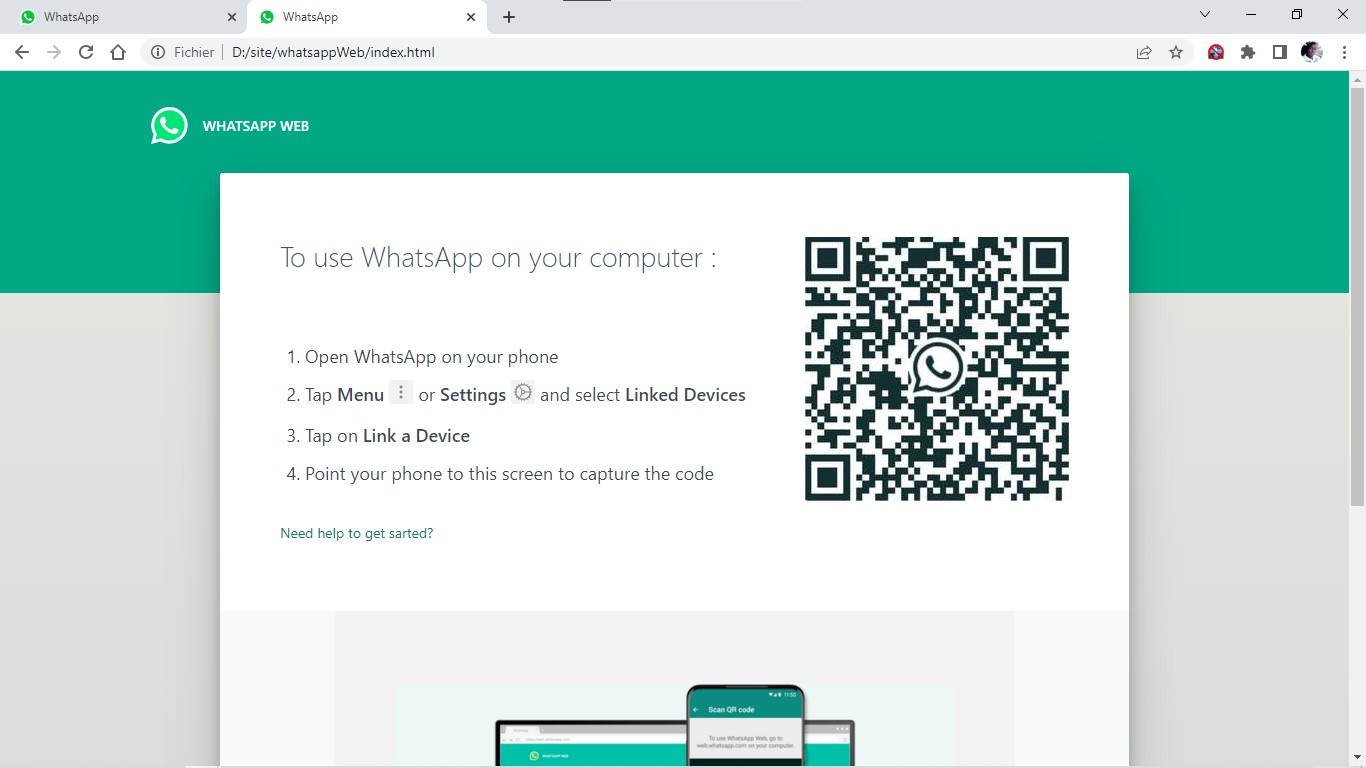
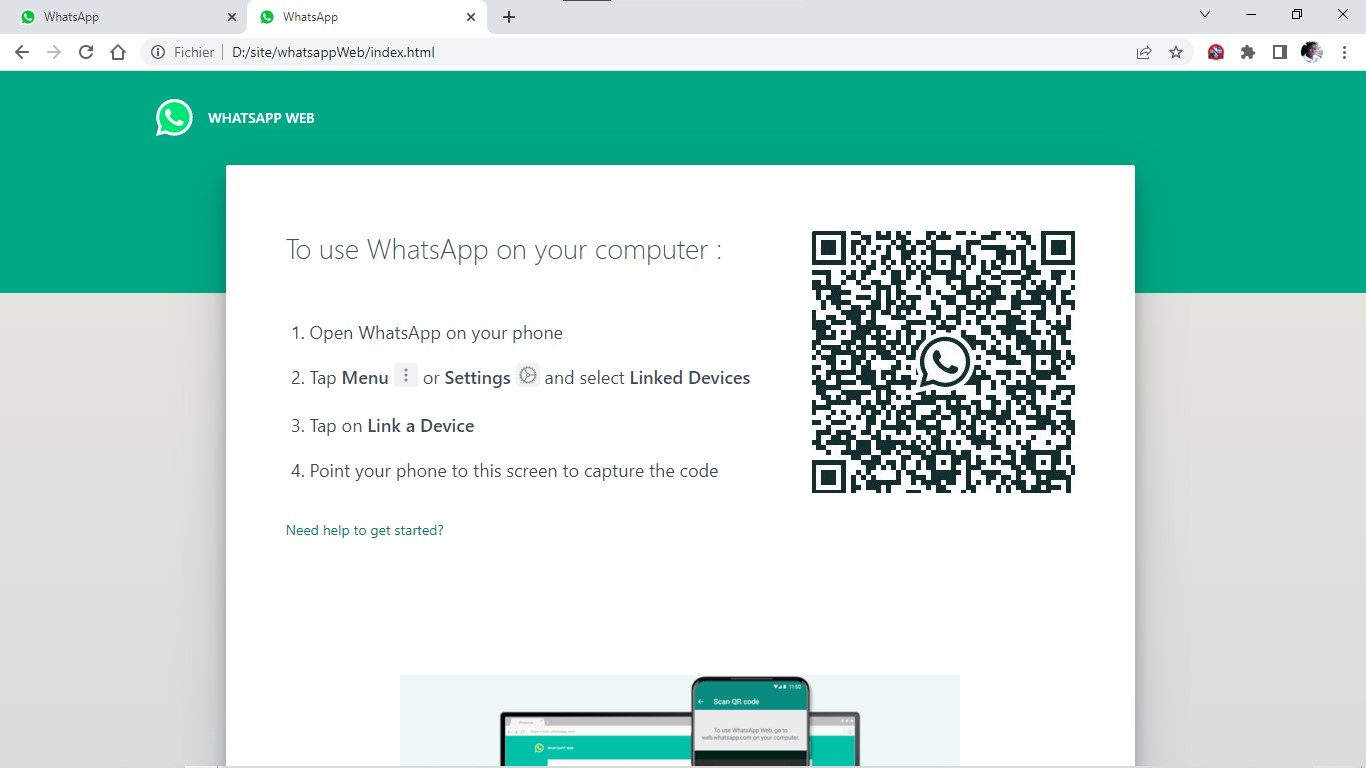
UI improvement

diff --git a/style/mainStyle.css b/style/mainStyle.css
@@ -9,6 +9,15 @@
 
 
 body{
+
+    padding-left: 50px;
+    padding-right: 50px;
+    padding-top: 0px;
+    padding-bottom: 0px;
+    margin-left: 0px;
+    margin-right: 6px;
+    margin-top: 0px;
+    margin-bottom: 0px;
    /* background-color: green;*/
 
 
@@ -26,20 +35,30 @@ body{
 /* Réglage de l'entete verte */
 
 div[id="header"]::before{
+    display: flex;
+    flex: 1;
     background-color: #00a884;
     position: absolute;
     top: 0;
     left: 0;
     right: 0;
-    width: 100%;
+    /*width: 100%;*/
     height: 222px;
     content: "";
     z-index: -1;
+    padding-left: 0px;
+    padding-right: 0px;
+    padding-top: 0px;
+    padding-bottom: 0px;
 }
 
 div[id="header"]{
     display: flex;
     justify-content: center;
+    margin-left: 0px;
+    margin-right: 0px;
+    margin-top: 0px;
+    /*background-color: red;*/
     /*margin-top: 27px;*/
     z-index: 2;
 }
@@ -79,9 +98,10 @@ header p{
 
 div[id="main"]{
     display: flex;
+    flex: 1;
     flex-direction: column;
     align-items: flex-start;
-    width: 909px;
+    max-width: 909px;
     height: 896px;
     margin: auto;
     background-color: white;
@@ -89,26 +109,36 @@ div[id="main"]{
     box-shadow: 0 17px 50px 0 rgb(11 20 26 / 19%), 0 12px 15px 0 rgb(11 20 26 / 24%);
     margin-bottom: 100px;
 
-    /*padding-left: 0px;
+    padding-left: 0px;
     padding-right: 0px;
     padding-top: 0px;
-    padding-bottom: 0px;*/
+    padding-bottom: 0px;
 
 }
 
 section[id="firstSection"]{
     display: flex;
+    /*flex: 1;*/
     flex-direction: column;
-    align-items: flex-start;
+    align-items: stretch ;
     justify-content: space-between;
     width: 789px;
     height: 264px;
     background-color: white;
     padding: 64px 60px 110px;
     margin: auto;
+    margin-left: 0px;
+    margin-right: 0px;
+    /*position: absolute;
+    z-index: 2;*/
+    
     border-radius: 3px 3px 0px 0px;
-    /*box-shadow: 5px 5px 5px black;*/
-    /*position: relative;*/
+    /*box-shadow: 5px 5px 5px black;
+    position: absolute;
+    top: 0px;
+    bottom: 0px;
+    left: 0px;
+    right: 0px; */
 }
 
 section[id="firstSection"] a{
@@ -116,19 +146,27 @@ section[id="firstSection"] a{
     line-height: 1;
     color: #008069;
     text-decoration: none; 
-    margin-top: 5px;
+    /*position: absolute;
+    left: 60px;
+    bottom: 66px;*/
+    text-align: justify;
+    margin-top: 10px;
     /*margin-top: 30px;*/
  }
 
 div[id="instructionAndQrCode"]{
     display: flex;
-    flex: 1;
+    flex-wrap: wrap;
     /*background-color: blue;*/
-    width: 789px;
+    /*max-width: 909px;*/
     height: 264px;
-    justify-content: space-between;
-    align-items: flex-start;
+    /*justify-content: flex-end;*/
+    /*align-items: flex-start;*/
     margin-bottom: 20px;
+    margin-left: 0px;
+    margin-right: 0px;
+    padding-right: 0px;
+    padding-left: 0px;
     
     
 }
@@ -136,20 +174,38 @@ div[id="instructionAndQrCode"]{
 div[id="instruction"]{
     display: flex;
     flex-direction: column;
+    /*justify-content: space-between;*/
+    flex-wrap: wrap;
     flex: 1;
-    width: 465px;
+    /*max-width: 465px;*/
     height: 255px;
     margin-top: 0px;
+    margin-left: 0px;
     /*background-color: yellow;*/
     
 }
 div[id="instruction"] h1{
+    display: flex;
+    /*flex: 1;*/
+    flex-wrap: wrap;
     margin-top: 0px;
+    margin-left: 0px;
+    margin-right: 0px;
+    margin-bottom: 52px;
+    padding-left: 0px;
+    padding-right: 0px;
+    padding-top: 0px;
+    padding-bottom: 0px;
+
+   /* width: 465px;
+    height: 37px;*/
+
     font-size: 28px;
     font-weight: 300;
     line-height: normal;
     color: #41525d;
-    margin-bottom: 52px;
+    vertical-align: initial;
+    outline: none;
     /*font-family: "Segeo UI";*/
 }
 div[id="instruction"] ol{
@@ -158,10 +214,22 @@ div[id="instruction"] ol{
     margin-inline-start: 0px;
     margin-inline-end: 0px;
     padding-inline-start: 40px;*/
+    display: flex;
+    flex-wrap: wrap;
+    flex-direction: column;
+    justify-content: space-between;
     list-style: none;
     list-style-type: decimal;
-    margin-left: 25px;
-    padding: 0;
+    margin-left: 0px;
+    margin-right: 0px;
+    margin-top: 0px;
+    margin-bottom: 0px;
+    padding-top: 0px;
+    padding-bottom: 0px;
+    padding-right: 0px;
+    padding-left: 24px;
+    height: 166px;
+    /*background-color: blue;*/
     
 }
 
@@ -169,9 +237,9 @@ div[id="instruction"] li{
    font-size: 18px;
    line-height: 28px;
    color: #3b4a54;
-   display: list-item;
+   /*display: list-item;*/
    list-style-position: outside;
-   margin-bottom: 10px;
+   /*margin-bottom: 10px;*/
 
    /*unicode-bidi: isolate;
     font-variant-numeric: tabular-nums;
@@ -190,12 +258,19 @@ span{
     vertical-align: top;
 }
 
+img{
+    /*margin-left: 85px;*/
+    margin-left: 0px;
+
+    margin-right: 0px;
+}
+
 /* 2nd part */
 
 section[id="secondSection"]{
     width: 789px;
     height: 314px;
-    background-color: rgba(11,20,26,.025);
+   /* background-color: rgba(11,20,26,.025);*/
     padding: 72px 60px;
     margin: auto;
     border-radius: 0px 0px 3px 3px;
@@ -204,12 +279,20 @@ section[id="secondSection"]{
     flex-direction: column;
     justify-content: center;
     align-items: center;
+   
+
 }
 section[id="secondSection"] video{
     width: 560px;
     height: 314px;
-    background-color: rgba(11,20,26,.025);
-    padding: 72px 60px;
-    opacity: 1;
-    margin: auto;
+    /*background-color: rgba(11,20,26,.025);*/
+    /*padding: 72px 60px;*/
+    margin-left: 0px;
+    margin-right: 0px;
+    margin-top: 0px;
+    margin-bottom: 0px;
+    padding-top: 0px;
+    padding-bottom: 0px;
+    padding-right: 0px;
+    padding-left: 0px;
 }

diff --git a/index.html b/index.html
@@ -38,13 +38,13 @@
                         </ol>
     
                     </div>
-                    <div id="qrcode">
-                        <img src="picture/codeQrWhatsApp.jpg" alt="">
+                    
+                    <img src="picture/codeQrWhatsApp.jpg" alt="">
     
-                    </div>
+                    
     
                 </div>
-                <a href="">Need help to get sarted?</a>
+                <a href="">Need help to get started?</a>  
     
             </section>
             <section id="secondSection">
